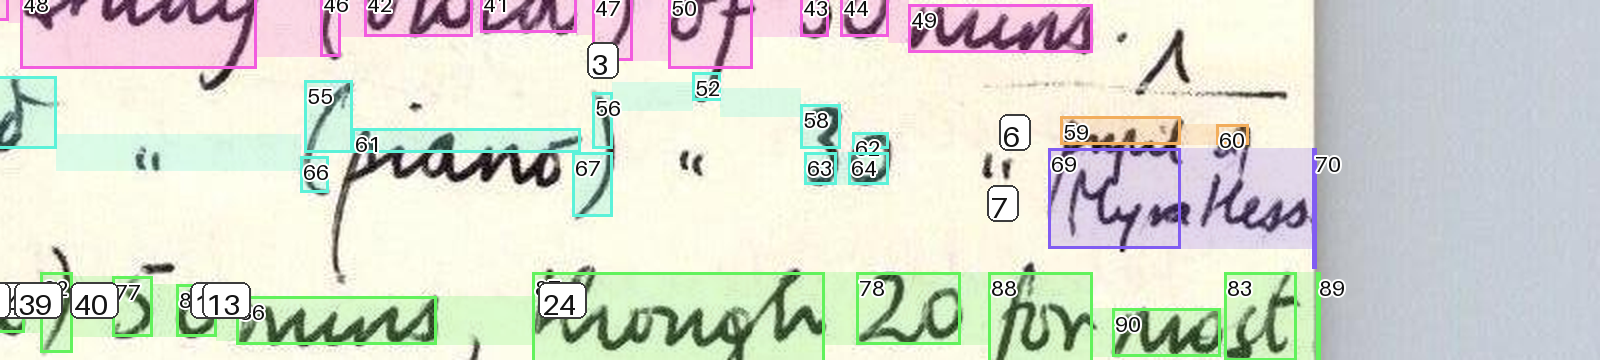
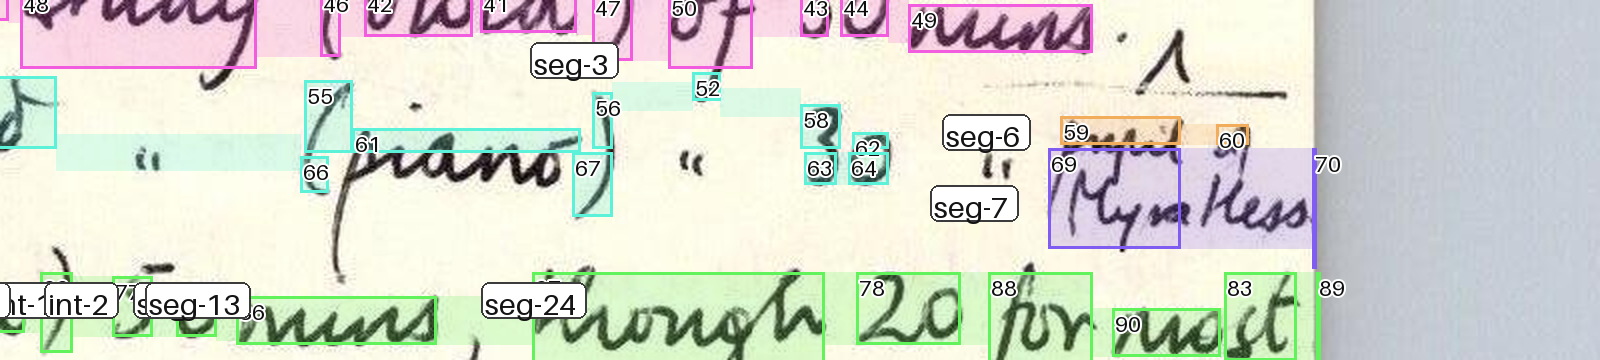
spike: name-labelled maps; the render scripts save again
The label= edit dropped crop.save — every render since was a no-op and
the served maps were stale. Restored, re-rendered, self-read: the bottom
shows seg-33..37, seg-last-main, int-1/2/3, no bare 40/41.

diff --git a/research/spike-word-segmentation/render_expected_map.py b/research/spike-word-segmentation/render_expected_map.py
@@ -18,7 +18,7 @@ from PIL import Image, ImageDraw, ImageFont
 from tools.page import Page
 from tools.render import render_rows
 from tools.row import Row
-from tools.spike_gold import _render_ids
+from tools.word_numbering import numbered_order
 from tools.word import Word
 
 FIXTURE = Path(__file__).resolve().parents[2] / "tests" / "fixtures" / "page01-wordseg"
@@ -33,8 +33,14 @@ end = body.index("def test_gold_matches_the_adjudicated_mapping")
 ns: dict = {}
 exec("mapping_block = " + body[start:end].replace("EXPECTED_MAPPING = {", "{", 1), {}, ns)
 expected = ns["mapping_block"]
-order = sorted(expected, key=lambda s: (0 if s.startswith("seg-") else 1, int(re.search(r"(\d+)", s).group(1)) if re.search(r"(\d+)", s) else 999))
-render_id = _render_ids(words)
+def _order_key(name: str) -> tuple[int, int]:
+    match = re.search(r"(\d+)", name)
+    return (0 if name.startswith("seg-") else 1, int(match.group(1)) if match else 999)
+
+
+order = sorted(expected, key=_order_key)
+boxes = [(w["x0"], w["y0"], w["x1"], w["y1"]) for w in words]
+render_id = {page: render for render, page in enumerate(numbered_order(boxes), start=1)}
 page_of = {render: page for page, render in render_id.items()}
 page_model = Page(
     [
@@ -56,7 +62,7 @@ for index, name in enumerate(order, start=1):
     ys = [(words[page_of[r]]["y0"] + words[page_of[r]]["y1"]) / 2 for r in expected[name]]
     cx = min(xs) - surface["x0"] + pad
     cy = sum(ys) / len(ys) - surface["y0"] + pad
-    label = str(index)
+    label = name
     tb = draw.textbbox((0, 0), label, font=font)
     draw.rounded_rectangle(
         (cx - 30 - (tb[2] - tb[0]), cy - 14, cx - 22, cy + 14),

diff --git a/research/spike-word-segmentation/diagnose_sites.py b/research/spike-word-segmentation/diagnose_sites.py
@@ -133,7 +133,7 @@ def _main() -> int:
             cy = sum(ys) / len(ys)
             cy = max(y0 + 30, min(y1 - 30, cy))
             cy = (cy - y0) * scale
-            label = str(label_of[name])
+            label = name
             tb = draw.textbbox((0, 0), label, font=labelfont)
             draw.rounded_rectangle(
                 (cx - 44 - (tb[2] - tb[0]), cy - 18, cx - 30, cy + 18),
